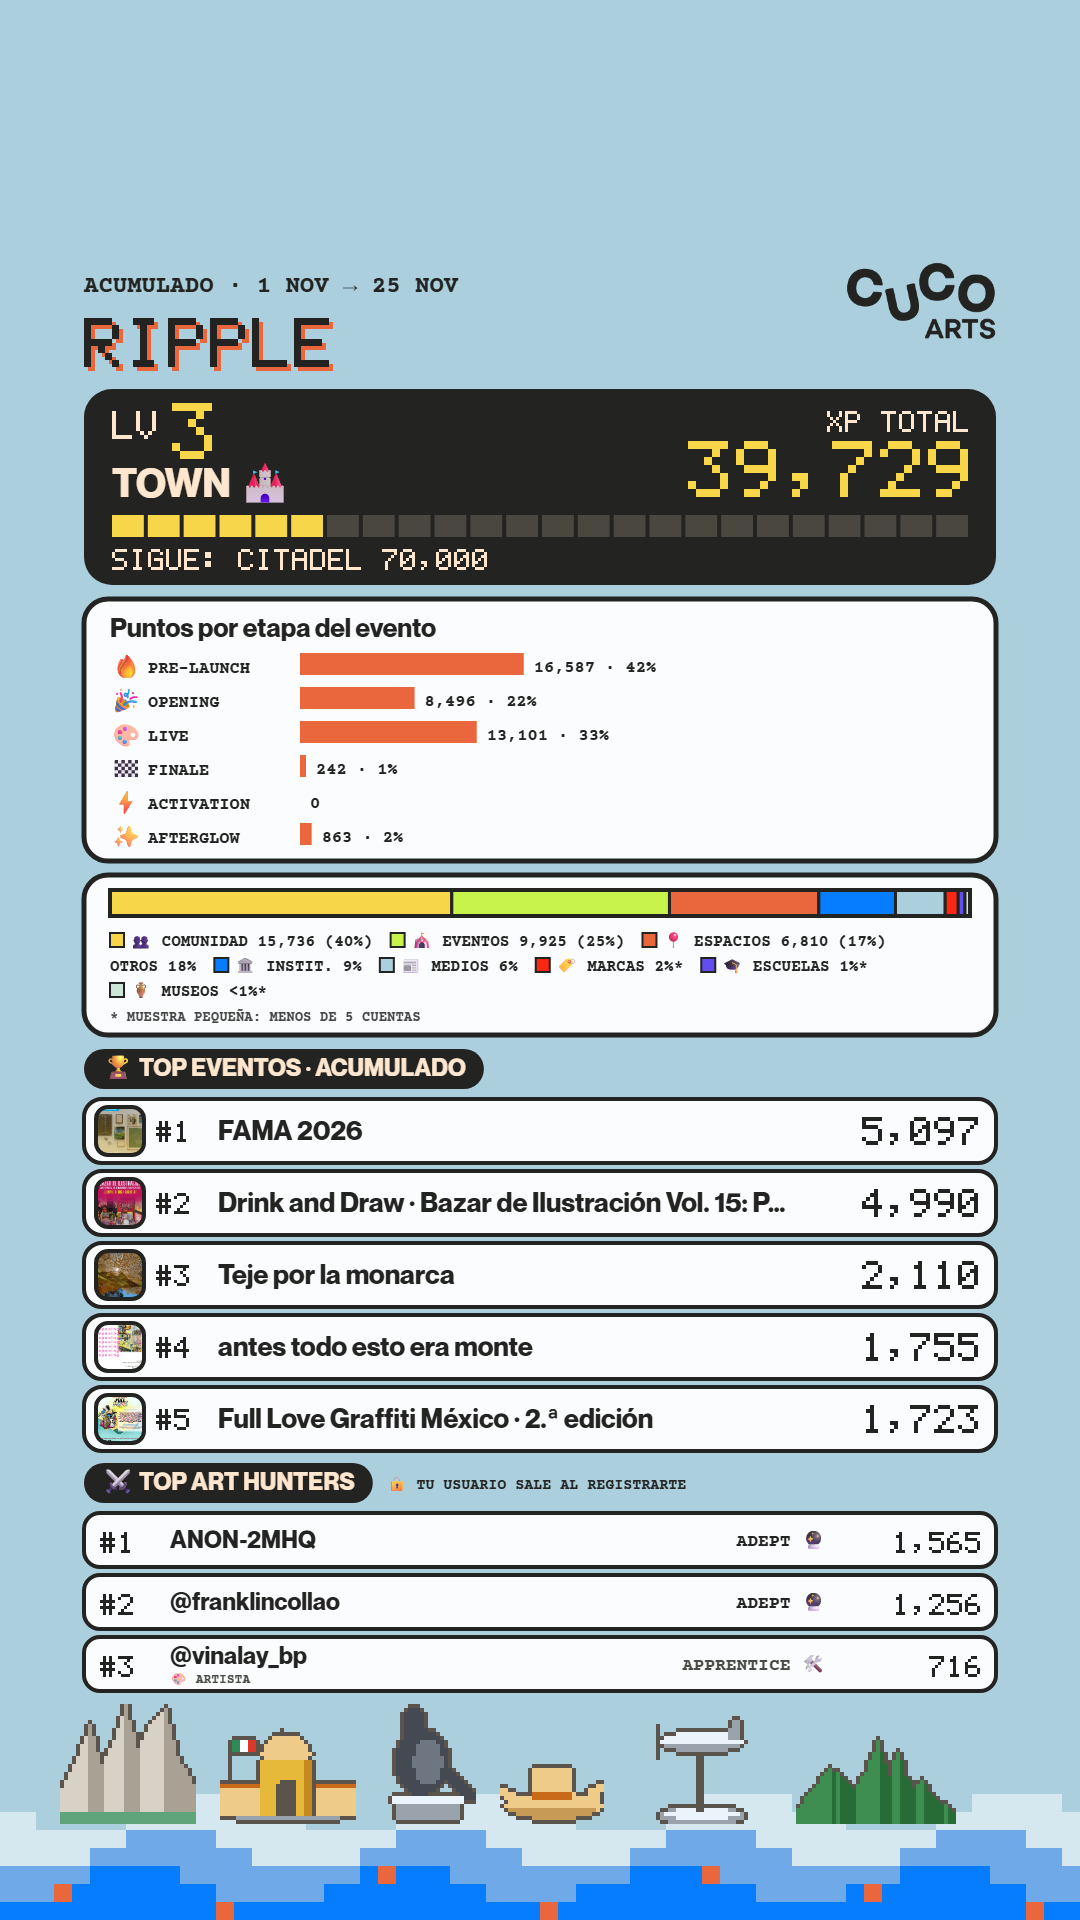
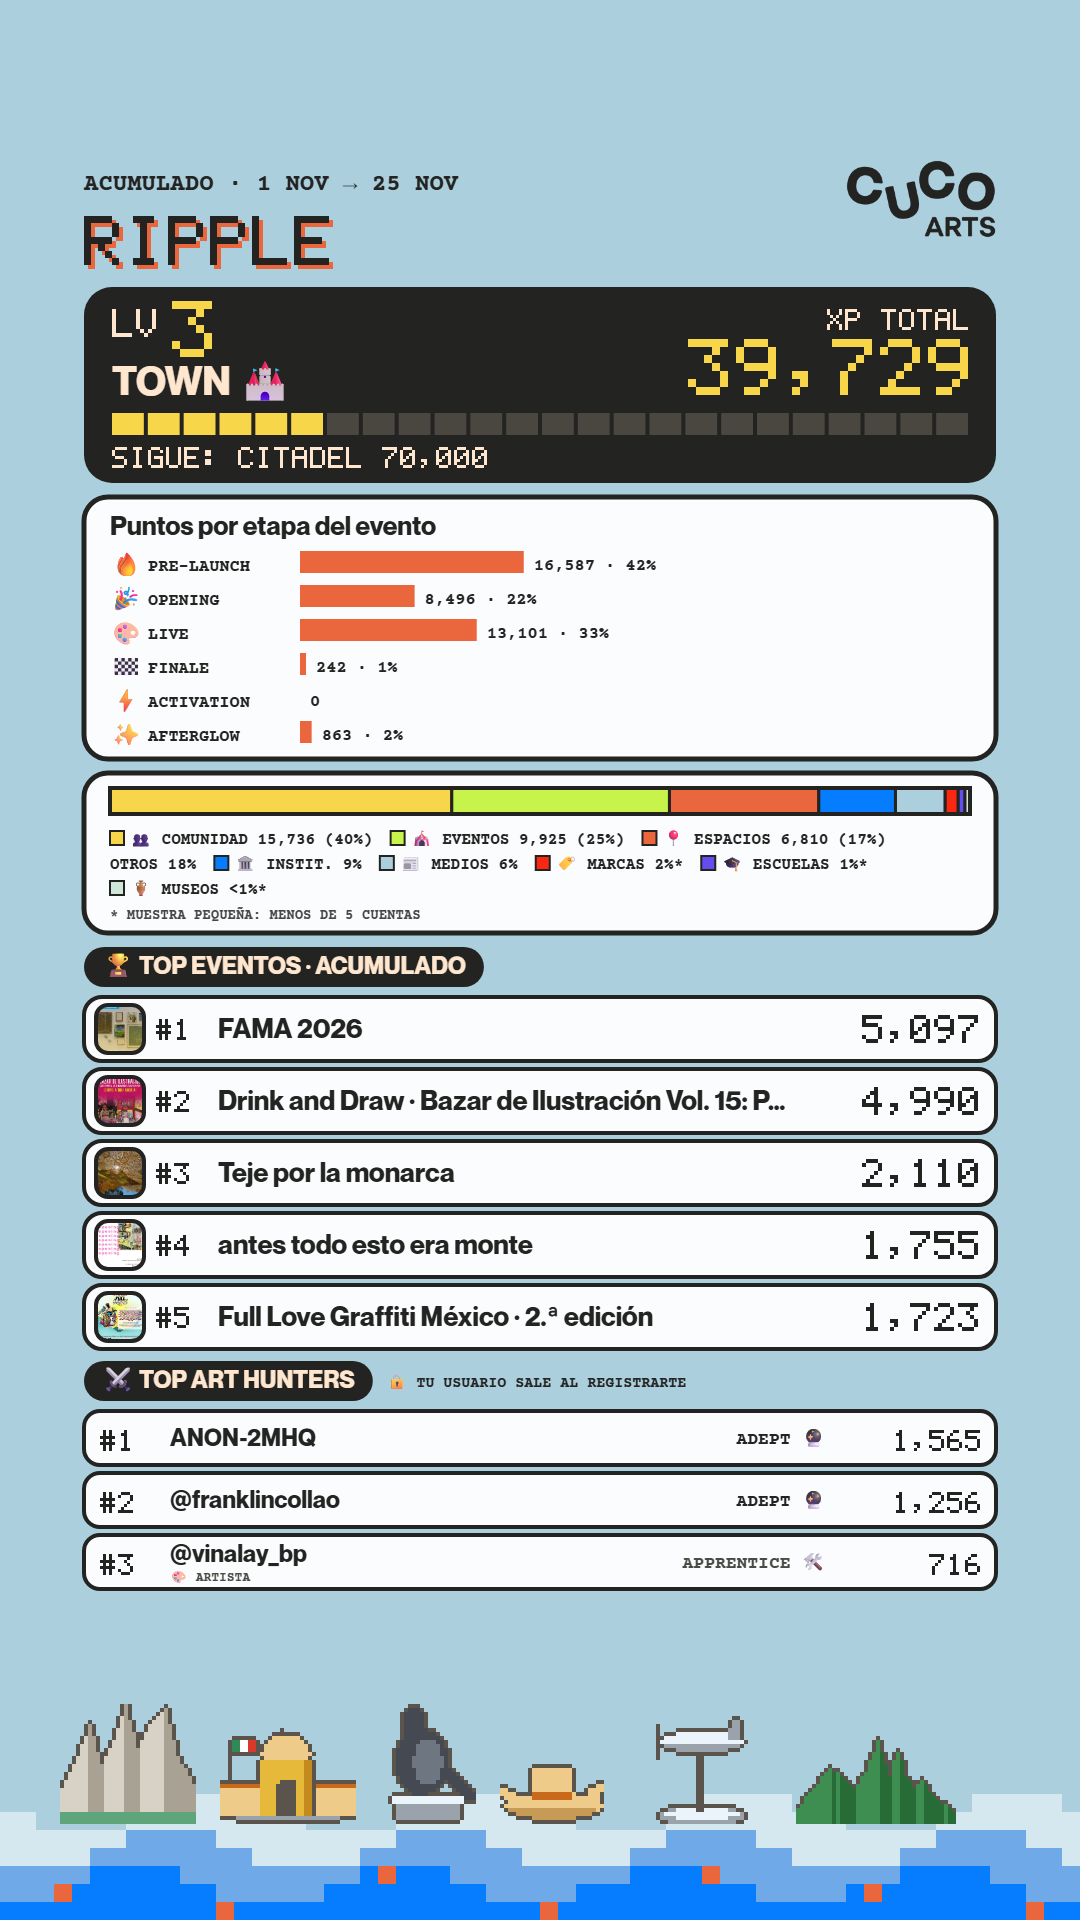
Historias de /mty y RIPPLE: mas espacio util (listón desde 160 px, contenido hasta 1684 px, hueco del sticker de liga mas compacto); Esta semana muestra hasta 9 eventos; laminas del lunes regeneradas

diff --git a/frontend/public/mty/index.html b/frontend/public/mty/index.html
@@ -8228,7 +8228,7 @@ function storyBlurb(ev,max){
  * Arriba (debajo de lo que tapa Instagram): un listón oscuro de lado a lado con la etiqueta de tiempo (HOY…) y la invitación de marca "comparte tu experiencia en cucoarts.com/mty".
  * El hueco STICKER queda vacío en el tercio inferior (lejos de los bordes y sin tapar texto): ahí se pega a mano el sticker con la liga al evento. */
 let STORY_IMG=0;
-const STORY={M:84,TOP:268,RIB_Y:262,RIB_H:112,LIMIT:1556,STICKER:{x:150,y:1584,w:780,h:116}};
+const STORY={M:84,TOP:166,RIB_Y:160,RIB_H:112,LIMIT:1684,STICKER:{x:150,y:1710,w:780,h:100}};
 /* Letra propia de la historia: Hanken Grotesk (licencia libre OFL, se sirve desde /mty/fonts) para que se vea igual en iPhone, Android y escritorio;
  * Neue Montreal solo existe en equipos donde está instalada, así que en un teléfono caía a Helvetica o Roboto. */
 const SF='"Neue Montreal","Hanken Grotesk","Helvetica Neue",Arial,sans-serif';
@@ -9168,7 +9168,7 @@ function lunesCaption(key){
 }
 
 /* ---------- utilidades de dibujo de las historias del lunes (v2, 9-nov-2026): sin listón, el contenido arranca justo debajo de la zona que tapa Instagram ---------- */
-const LUN_TOP=262;
+const LUN_TOP=160;
 const lcol=n=>getComputedStyle(document.documentElement).getPropertyValue(n).trim()||'#888';
 /* ---------- look RIPPLE (11-nov-2026): fondo celeste, olas de pixeles y los seis lugares de Monterrey ---------- */
 const RPL_KEYS={lunesc:1,lunesm:1,lunesj:1,lunesx:1,lunesu:1,lunesv:1};
